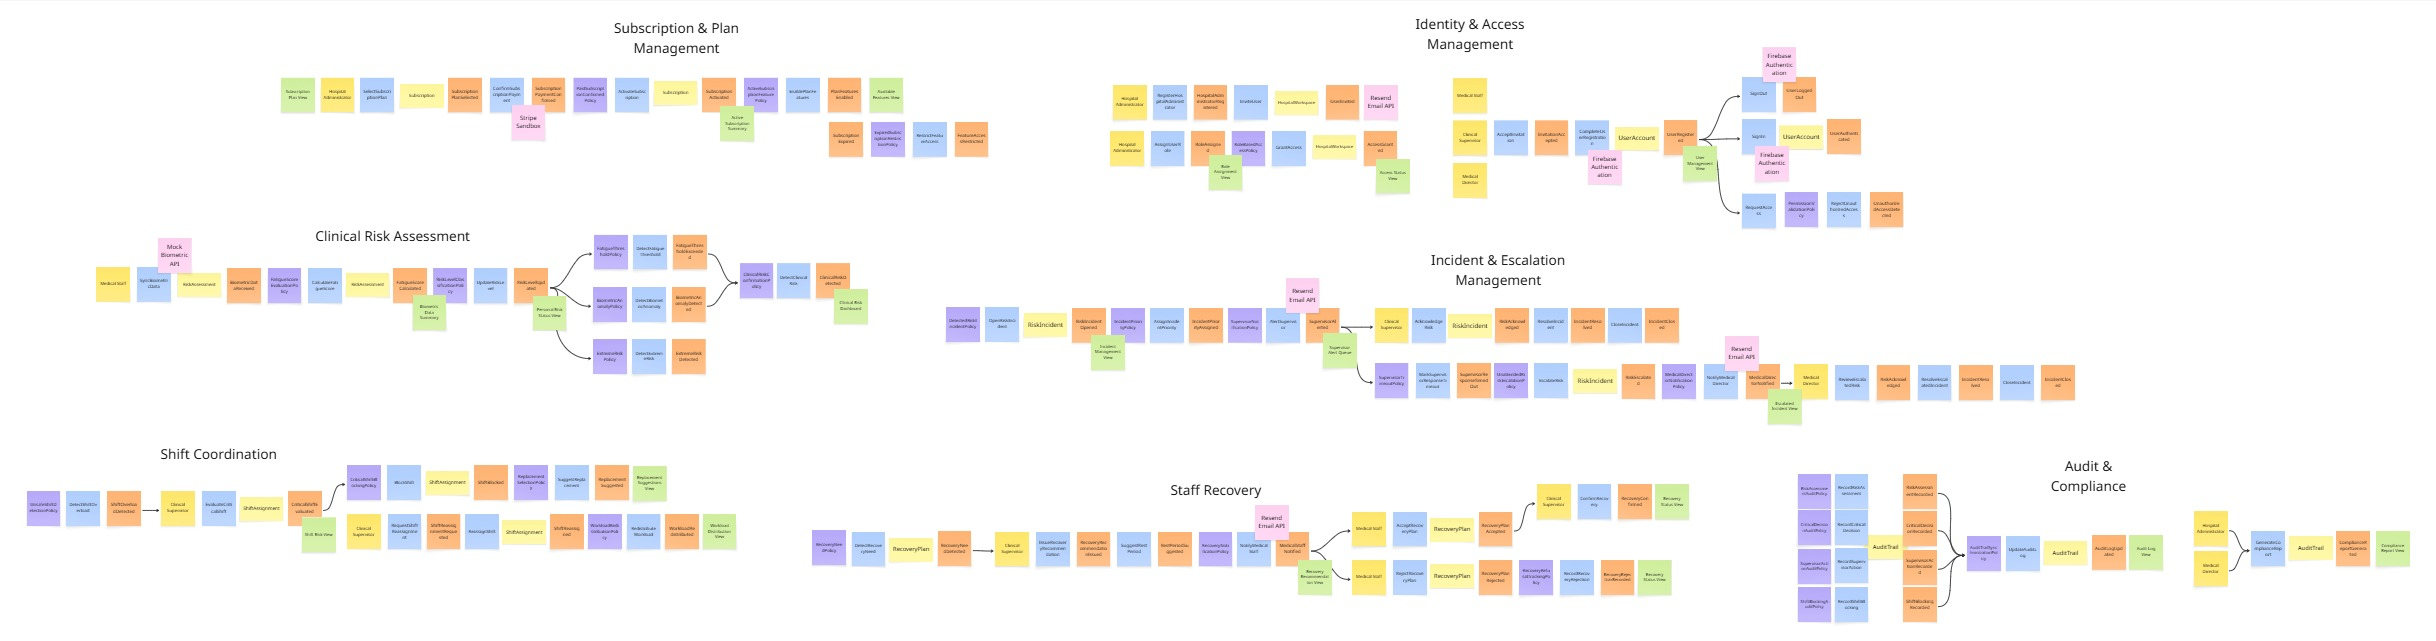
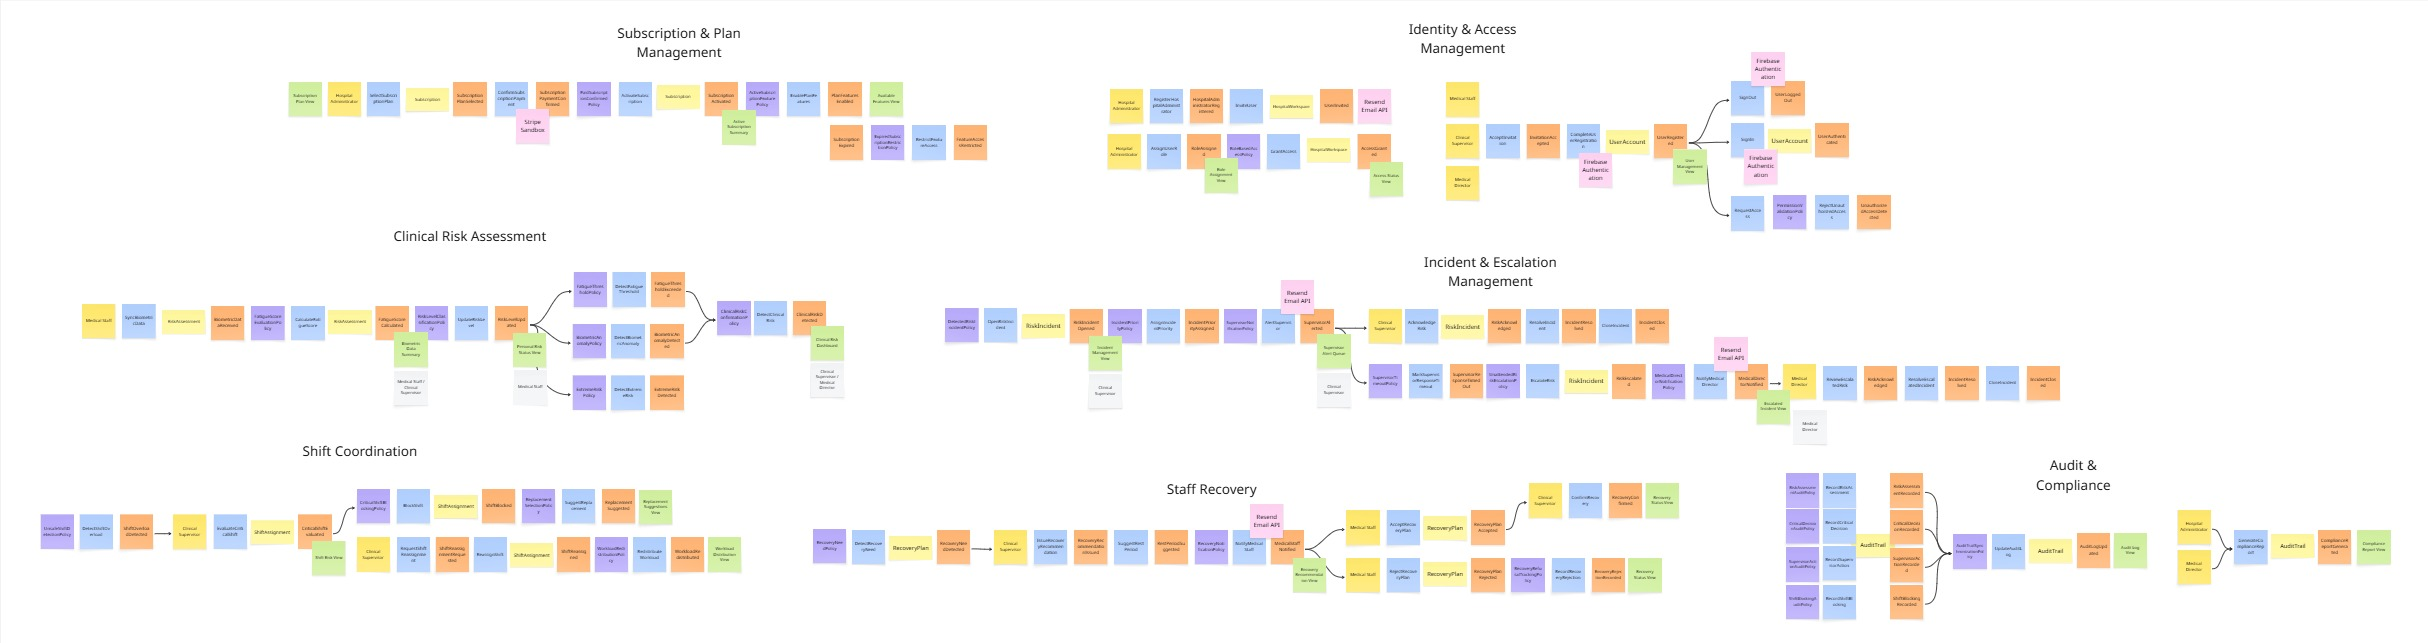
feat(evet-storming): corrections made.

diff --git a/README.md b/README.md
@@ -1763,9 +1763,6 @@ Permite gestionar el registro, inicio de sesión y cierre de sesión de los usua
 + **Resend Email API:**  
 Se utiliza para enviar correos relacionados con invitaciones, alertas y notificaciones importantes. Participa en procesos como `UserInvited`, `SupervisorAlerted`, `MedicalDirectorNotified` y `MedicalStaffNotified`.
 
-+ **Mock Biometric API:**  
-Representa una API simulada basada en datos JSON, desplegada para la entrega del proyecto. Esta API permite obtener información biométrica y operacional del personal médico, sirviendo como fuente de datos para eventos como `BiometricDataReceived`.
-
 #### 4.6.1.10. Domain Aggregates and Responsibility Boundaries
 
 <img src="Resources/Images/EventStorming/domain_aggregates.jpg" alt="Diseño del diagrama de aggregates y límites de responsabilidad."> <br>